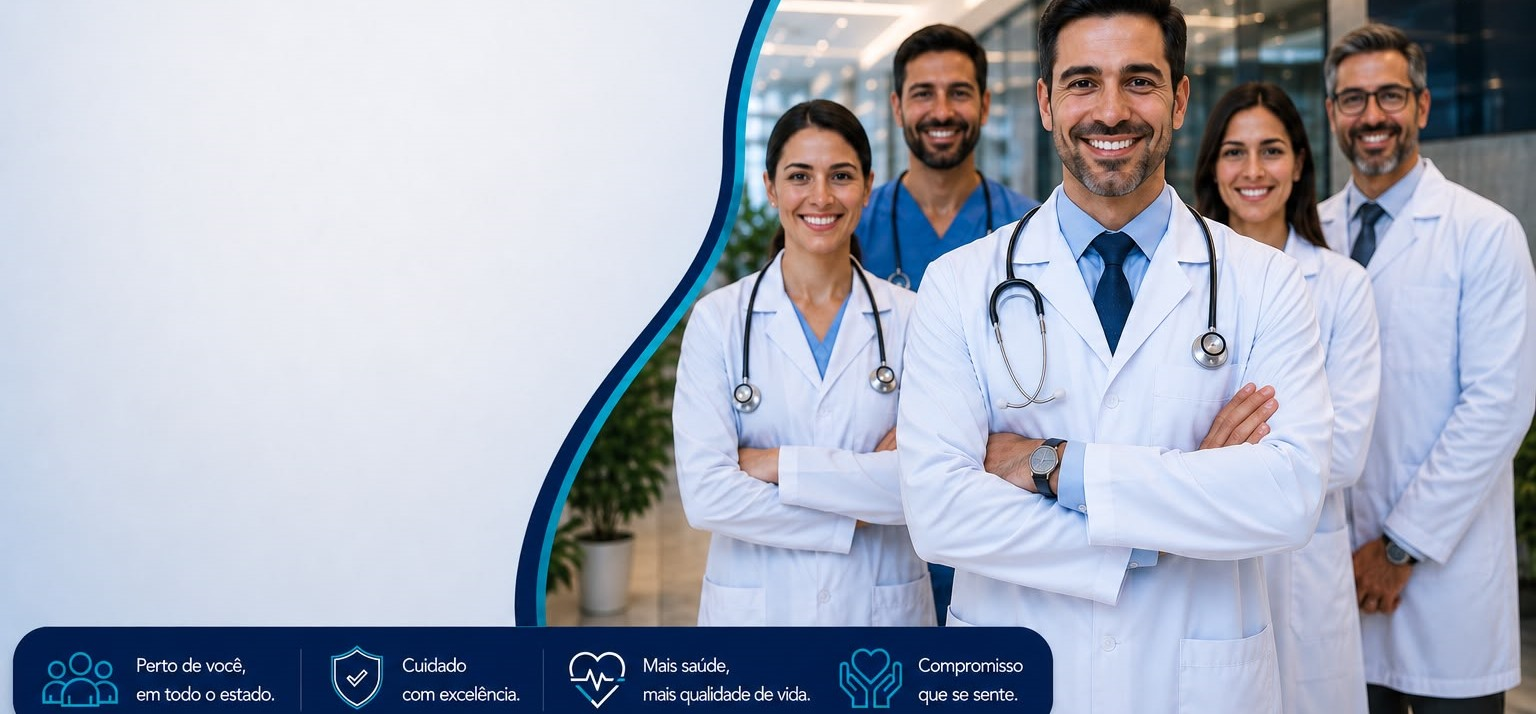
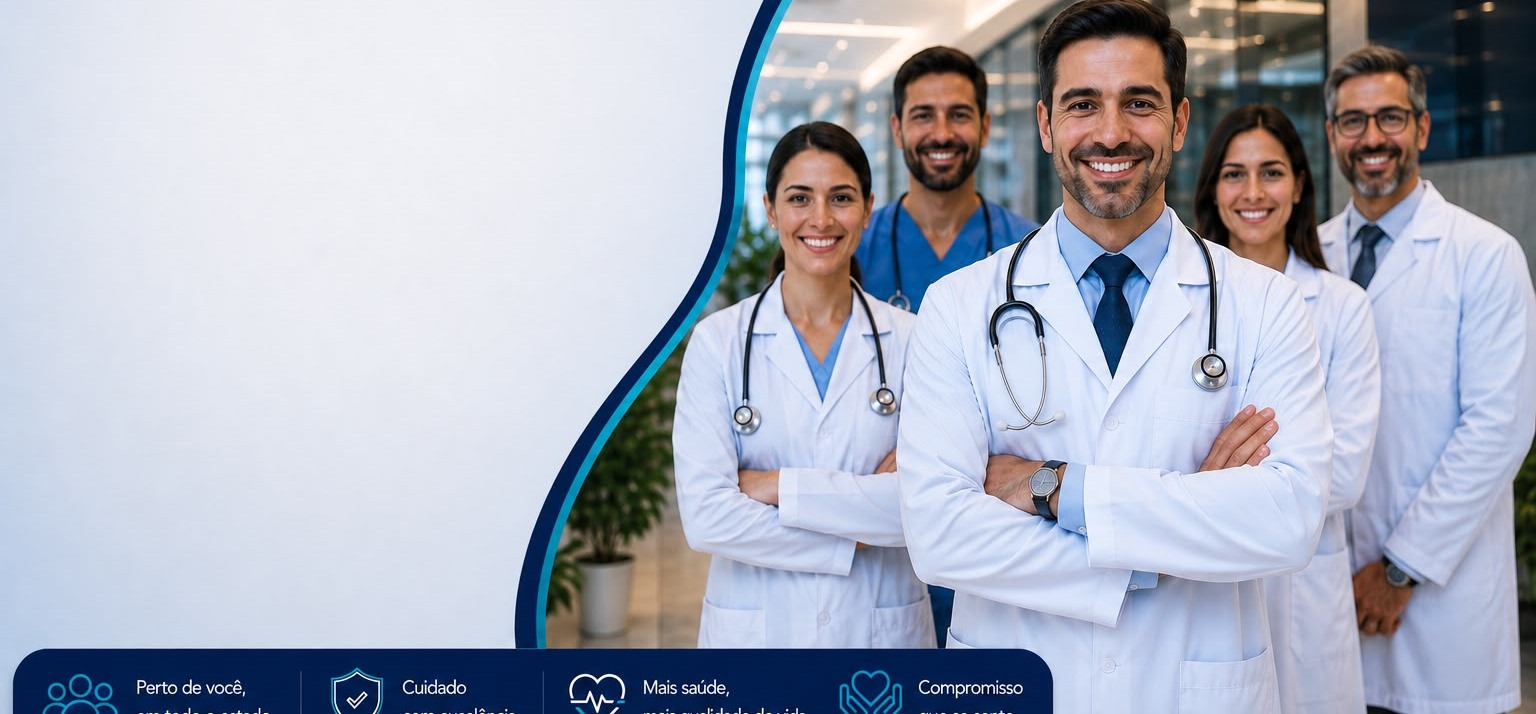
Tighten hero-equipe crop and switch back to cover for edge-to-edge fill
Contain left a visible margin/gap that looked inconsistent with the
other hero photos, which fill the box edge-to-edge. Cropped closer to
the hairline (222 instead of 244) and switched back to object-fit:
cover so it fills tightly like the rest, while still keeping the head
and the bottom bar text intact.

Changed region(s): [[0.0, 0.0, 1.0, 1.0], [0.875, 0.8627, 1.0, 1.0], [0.75, 0.8936, 0.8438, 0.9244]]

diff --git a/index.html b/index.html
@@ -87,7 +87,7 @@
         <div class="hero-art has-photo"><img class="art-img" src="img/hero-sede.jpeg" alt="Sede da Amplitude Saúde em Aracaju"><div class="art-blob b1"></div><div class="art-blob b2"></div><div class="art-grid"></div><span class="material-symbols-rounded art-icon">domain</span></div>
       </div>
       <div class="hero-slide" style="--g1:#0C1A2B;--g2:#0C1A2B" data-eyebrow="Nossa equipe" data-title="Profissionais que cuidam de verdade" data-sub="Um time médico dedicado, humano e preparado para oferecer o melhor cuidado para você e sua família.">
-        <div class="hero-art has-photo"><picture><source media="(max-width:760px)" srcset="img/mobile/hero-equipe.jpeg"><img class="art-img art-img-contain" src="img/hero-equipe.jpeg" alt="Equipe médica da Amplitude Saúde"></picture><div class="art-blob b1"></div><div class="art-blob b2"></div><div class="art-grid"></div><span class="material-symbols-rounded art-icon">groups</span></div>
+        <div class="hero-art has-photo"><picture><source media="(max-width:760px)" srcset="img/mobile/hero-equipe.jpeg"><img class="art-img" src="img/hero-equipe.jpeg" alt="Equipe médica da Amplitude Saúde"></picture><div class="art-blob b1"></div><div class="art-blob b2"></div><div class="art-grid"></div><span class="material-symbols-rounded art-icon">groups</span></div>
       </div>
       <div class="hero-slide" style="--g1:#0C1A2B;--g2:#0C1A2B" data-eyebrow="Cuidado para toda a vida" data-title="Um plano para todos os momentos da vida" data-sub="Assistência pensada para acompanhar você e sua família em cada fase da vida, com o mesmo cuidado de sempre.">
         <div class="hero-art has-photo"><picture><source media="(max-width:760px)" srcset="img/mobile/hero-idosos.jpeg"><img class="art-img" src="img/hero-idosos.jpeg" alt="Casal de idosos sorrindo, clientes Amplitude Saúde"></picture><div class="art-blob b1"></div><div class="art-blob b2"></div><div class="art-grid"></div><span class="material-symbols-rounded art-icon">elderly</span></div>
